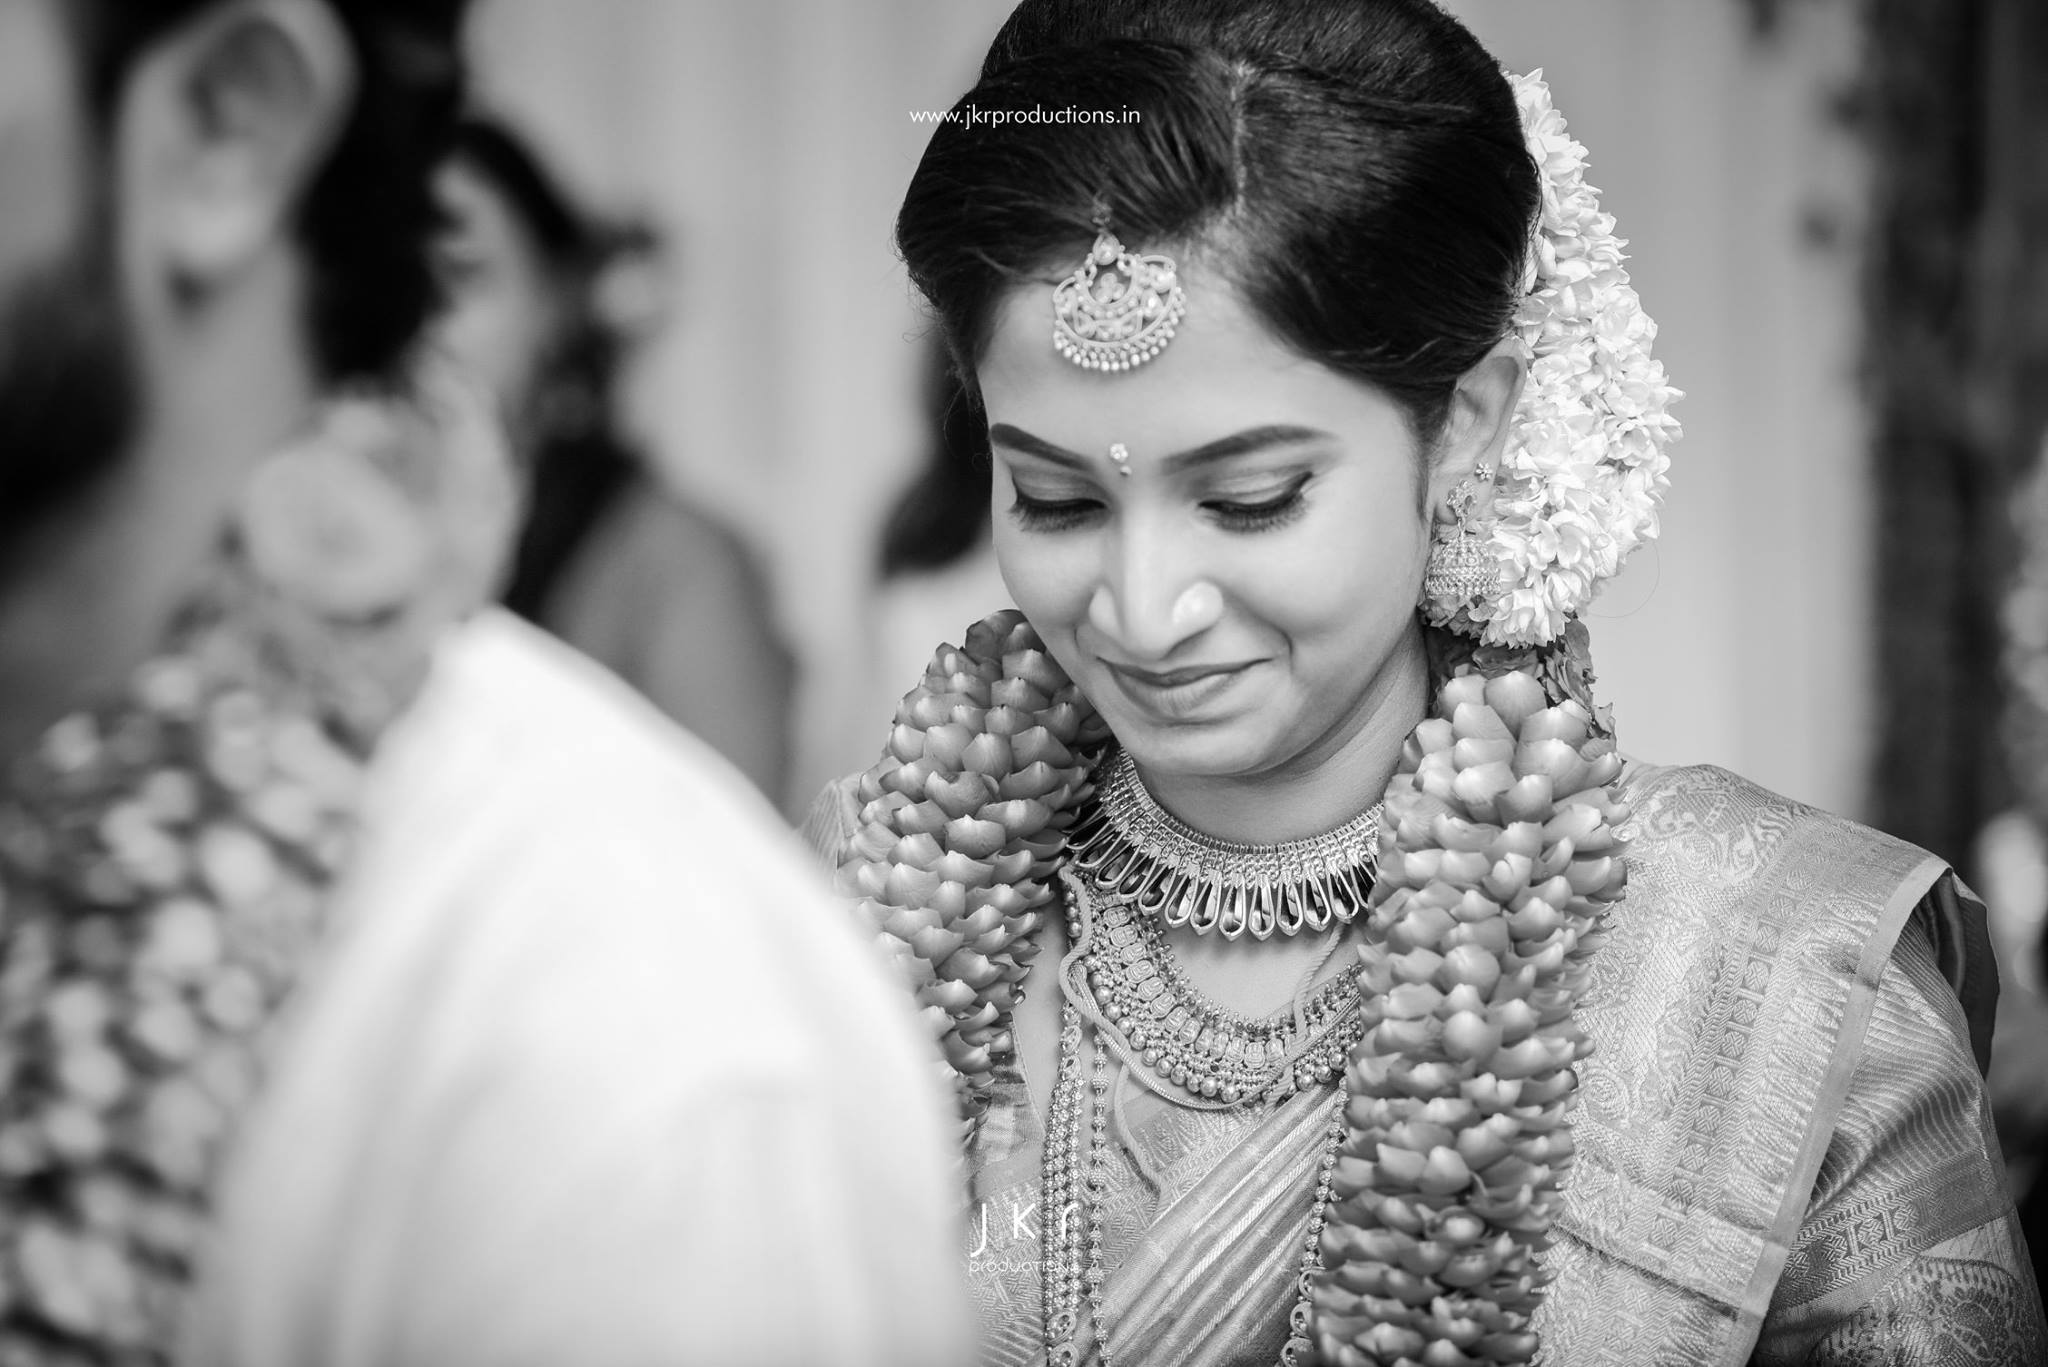
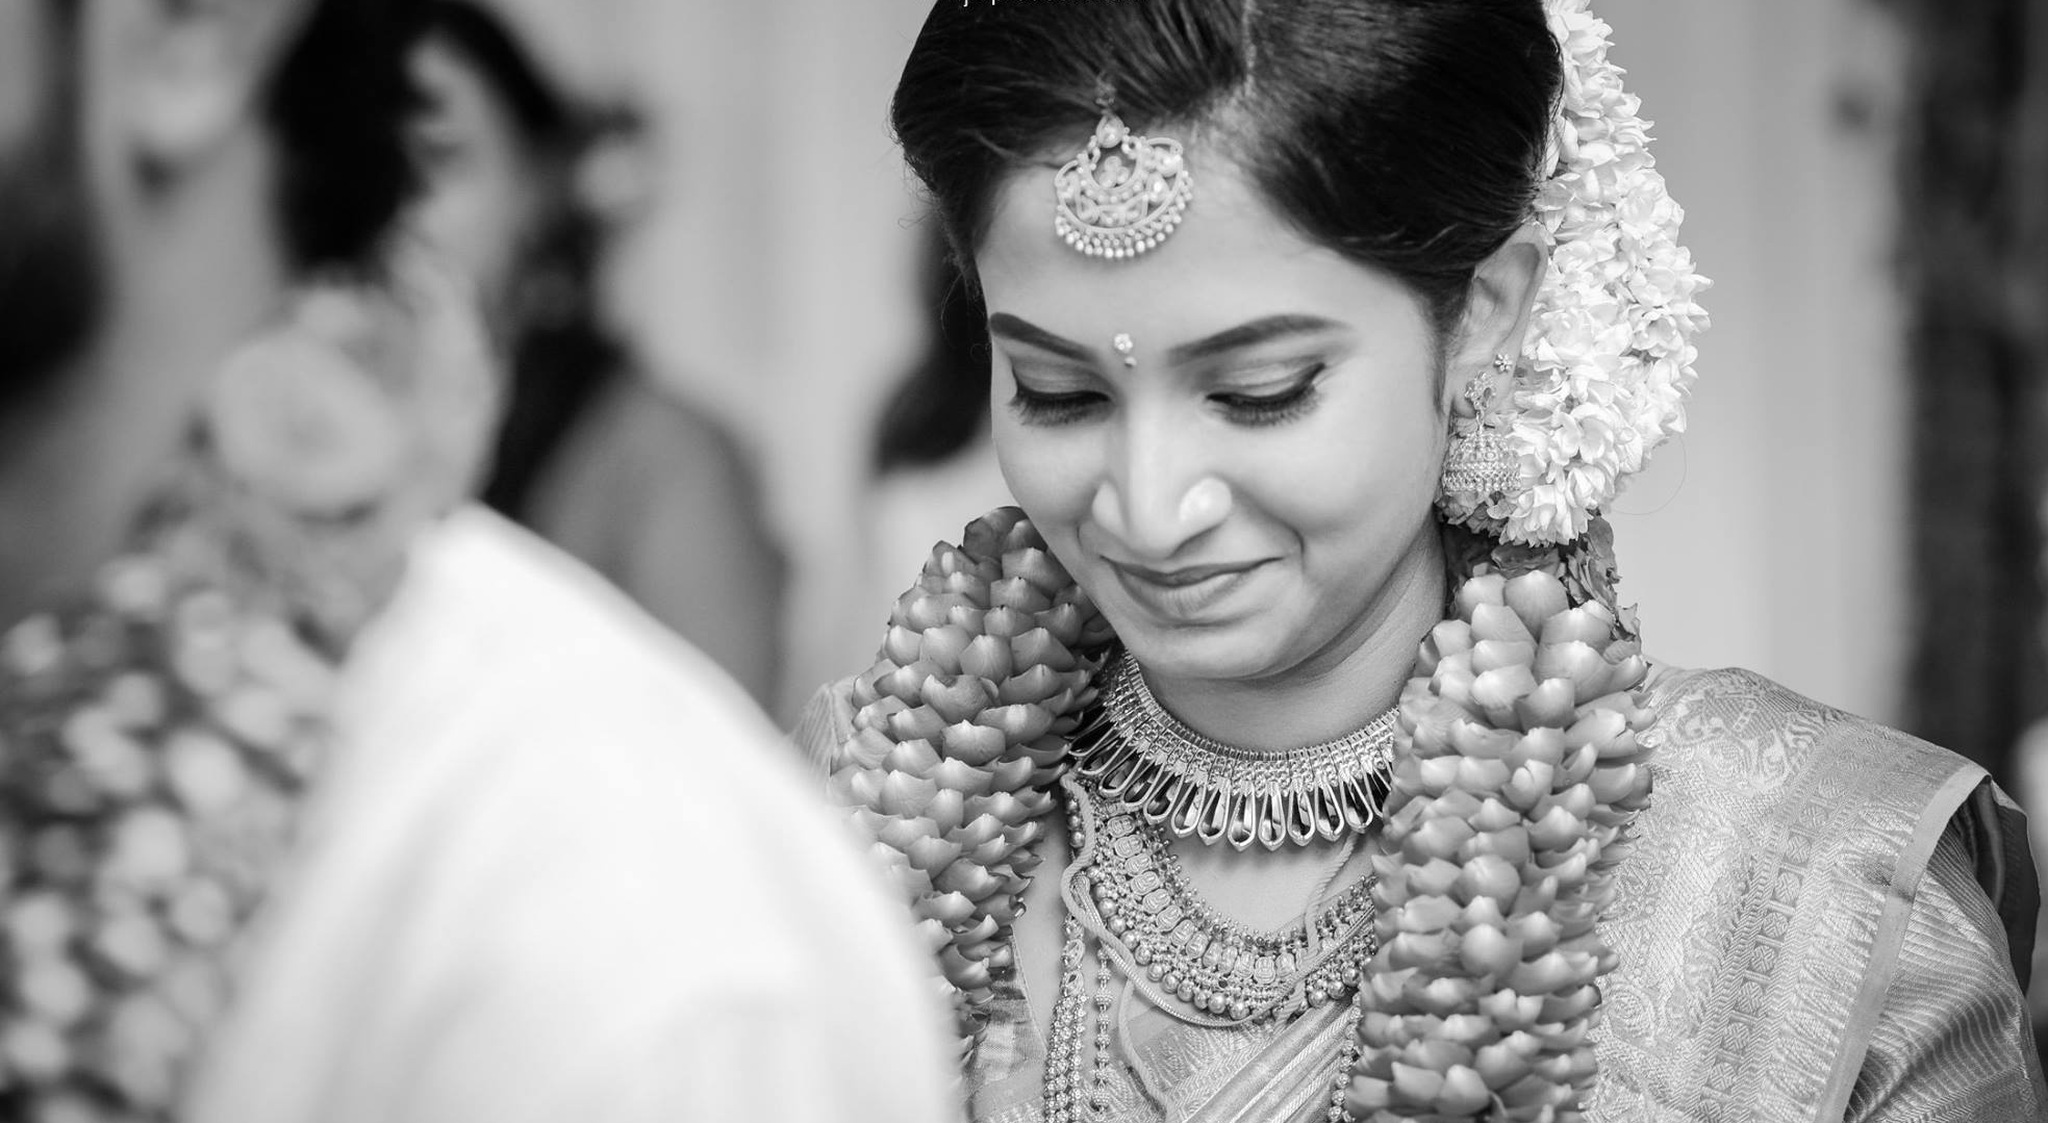
Restore home film photo without JK Productions watermark.
Keep the ceremony portrait in the slideshow after cropping watermark edges off the image.

diff --git a/src/pages/Home.jsx b/src/pages/Home.jsx
@@ -56,6 +56,7 @@ const IMG = "/site/images";
 
 const FILM = [
   { src: `${IMG}/venue-garden.jpg`, alt: "Garden pavilion for outdoor sessions" },
+  { src: `${IMG}/film/agni.jpg`, alt: "Wedding ceremony portrait" },
   { src: `${IMG}/gallery-3.jpg`, alt: "Delegates in the hall" },
   { src: `${IMG}/hero.jpg`, alt: "Evening programme at the hall" },
   { src: `${IMG}/venue-imperial.jpg`, alt: "Imperial ballroom ceremony" },
@@ -201,7 +202,7 @@ const HALL_GALLERY_SLIDES = (() => {
     [`${IMG}/venue-imperial.jpg`, "Imperial Ballroom"],
     [`${IMG}/venue-garden.jpg`, "Garden Pavilion"],
     [`${IMG}/venue-courtyard.jpg`, "Heritage Courtyard"],
-    [`${IMG}/venue-imperial.jpg`, "Imperial Ballroom"],
+    [`${IMG}/film/agni.jpg`, "Ceremony portrait"],
     [`${IMG}/gallery-1.jpg`, "Guests in the hall"],
     [`${IMG}/gallery-5.jpg`, "Dining setup"],
     [`${IMG}/hero.jpg`, "Evening programme"],
